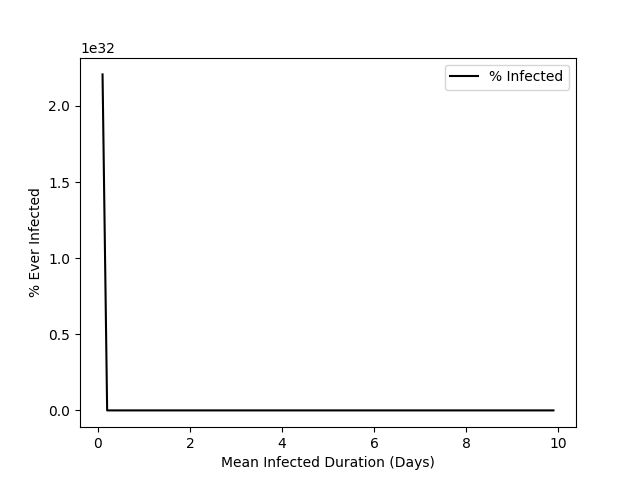
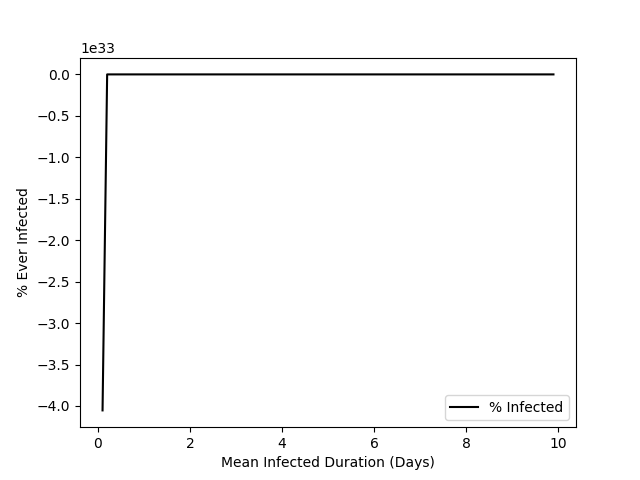
adding files

diff --git a/hrenard_program3.py b/hrenard_program3.py
@@ -8,7 +8,7 @@ def runsim(
 	transmissibility = .6,                         		# infection / contact
 	contact_factor = .2,                          		# (contact / day) / person
 	mean_exposed = 2,                               	# day
-	mean_quarantine = 1,					# day
+	mean_quarantine = 2,					# day
 	mean_death = 2,                                 	# day
 	plot = True):
 	
@@ -40,7 +40,7 @@ def runsim(
 		# Flows.
 		frac_susceptible =  S[i - 1] / (total_pop - Q[i - 1])
 		SI_contact_rate = frac_susceptible * I[i - 1] * contact_factor 		# contacts / day
-		exposed_rate = E[i - 1] * exposed_factor				# people / day
+		exposed_rate = S[i - 1] * exposed_factor				# people / day
 		quarantine_rate = E[i - 1] * quarantine_factor				# people / day
 		quarantine_recovery_rate = Q[i - 1] * recovery_factor  			# recoveries / day
 		quarantine_death_rate = Q[i - 1] * death_factor				# deaths / day
